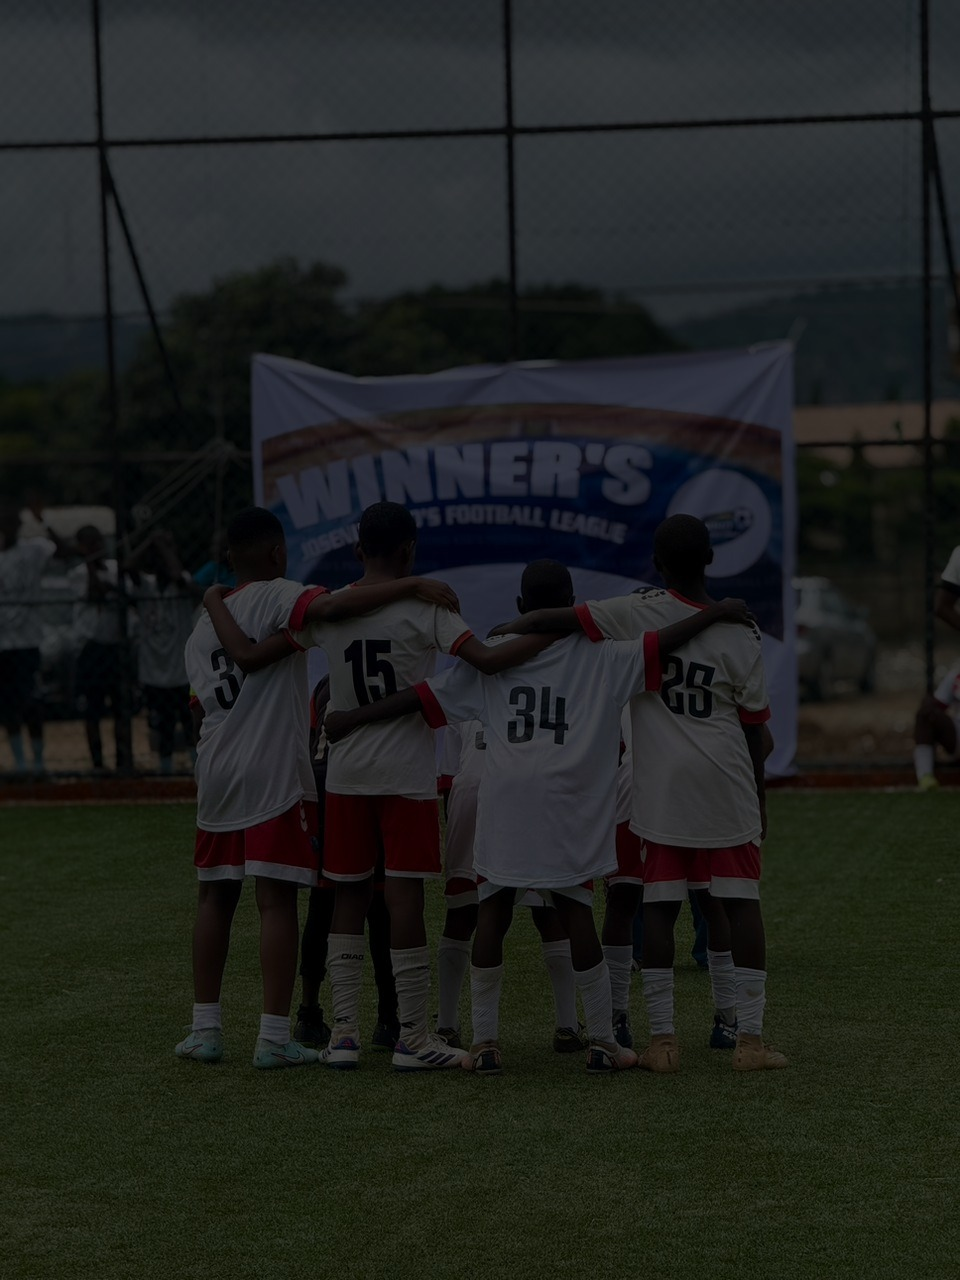
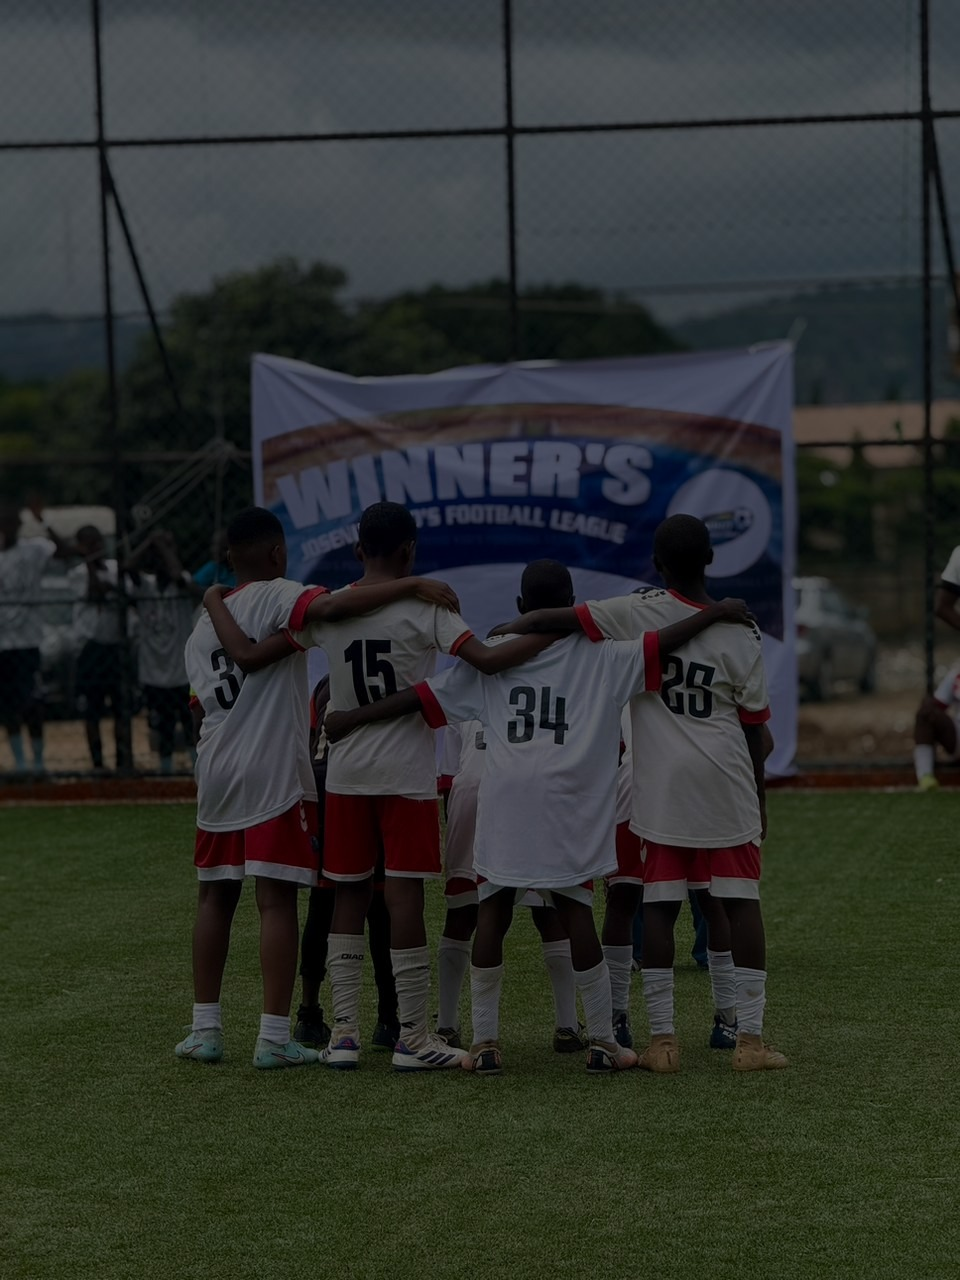
updateed home page hero image

diff --git a/src/pages/home/Home.jsx b/src/pages/home/Home.jsx
@@ -21,19 +21,19 @@ import small_img_4 from "../../../public/images/small_img_4.jpg";
 
 const heroSlides = [
   {
-    image: "/images/hero.jpg",
+    image: "/images/teamplay-dark.jpeg",
     title: "Join the Football League Today",
     subtitle: "Compete with the Best. Develop Your Skills.",
     cta: "Register Now",
   },
   {
-    image: "/images/hero-slide2.jpg",
+    image: "/images/aboutImg1-dark.jpeg",
     title: "Train Like a Pro",
     subtitle: "Expert Coaches. Structured Development.",
     cta: "Learn More",
   },
   {
-    image: "/images/hero-slide3.jpg",
+    image: "/images/hero-dark.jpeg",
     title: "Unleash Your Potential",
     subtitle: "Become a Confident, Disciplined Athlete.",
     cta: "Get Started",
@@ -164,7 +164,7 @@ const Home = () => {
 
   return (
     <div>
-      <div className="-top-16 relative w-full overflow-hidden h-[90vh] sm:h-[85vh] md:h-[80vh]">
+      <div className="-top-16 relative w-full overflow-hidden h-[90vh] sm:h-[85vh] md:h-[90vh]">
         <AnimatePresence mode="wait">
           {heroSlides.map(
             (slide, index) =>
@@ -232,23 +232,41 @@ const Home = () => {
           <ChevronRightIcon className="h-6 w-6 text-white" />
         </button> */}
 
-        {/* Dots */}
-        <div className="absolute bottom-5 left-1/2 -translate-x-1/2 flex gap-3">
-          {heroSlides.map((_, i) => (
-            <div
-              key={i}
-              onClick={() => setCurrent(i)}
-              className={`w-3 h-3 rounded-full cursor-pointer ${
-                current === i ? "bg-white" : "bg-gray-400"
-              }`}
-            />
-          ))}
+        {/* Line Dots + Slide Number */}
+        <div className="absolute bottom-10 left-1/2 -translate-x-1/2 w-full max-w-md px-6">
+          {/* Slide number */}
+          <div className="flex justify-between items-center text-white text-sm mb-3">
+            <span className="font-semibold">
+              {String(current + 1).padStart(2, "0")}
+            </span>
+            <span className="opacity-60">
+              {String(heroSlides.length).padStart(2, "0")}
+            </span>
+          </div>
+
+          {/* Lines */}
+          <div className="flex gap-3">
+            {heroSlides.map((_, i) => (
+              <div
+                key={i}
+                onClick={() => setCurrent(i)}
+                className={`
+          flex-1 bg-white! rounded-none! transition-all duration-500 cursor-pointer h-0.6
+          ${
+            current === i
+              ? "bg-orange-500 h-1"
+              : "bg-white/40 hover:bg-white/70"
+          }
+        `}
+              />
+            ))}
+          </div>
         </div>
       </div>
 
       {/* Hero Section */}
-      <section className="relative h-screen w-full">
-        {/* Background image (absolute) */}
+      {/* <section className="relative h-screen w-full">
+ 
         <div
           className='
       absolute inset-0 -top-16
@@ -258,14 +276,11 @@ const Home = () => {
     '
         />
 
-        {/* Optional overlay */}
-        {/* <div className="absolute inset-0 bg-black/40 z-0" /> */}
-
-        {/* Hero content (if any later) */}
+    
         <div className="relative z-10 h-full flex items-center justify-center text-white">
-          {/* Hero text/buttons can live here */}
+        
         </div>
-      </section>
+      </section> */}
 
       <div className="">
         {/* Slider */}
